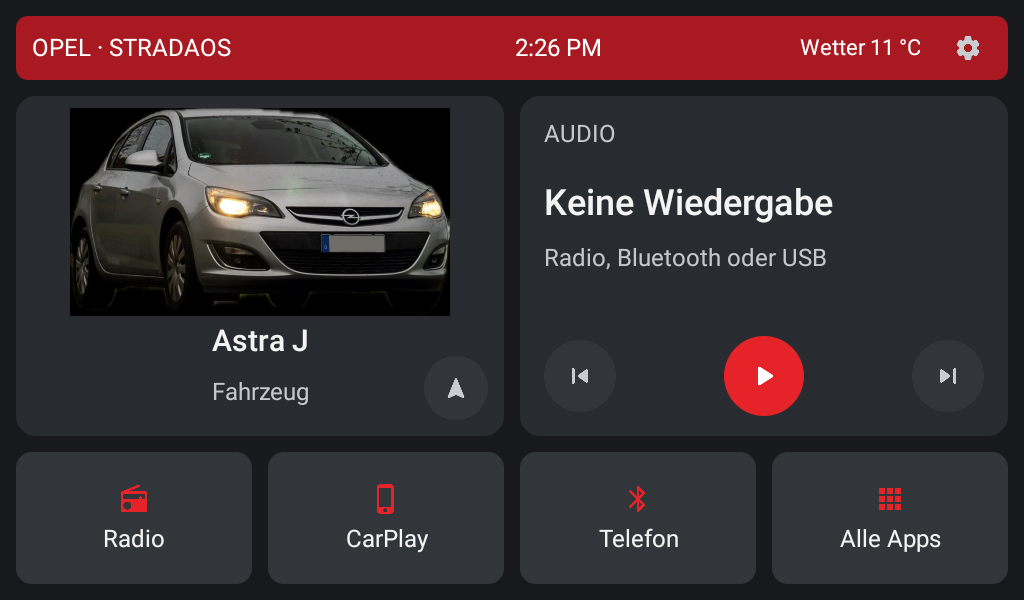
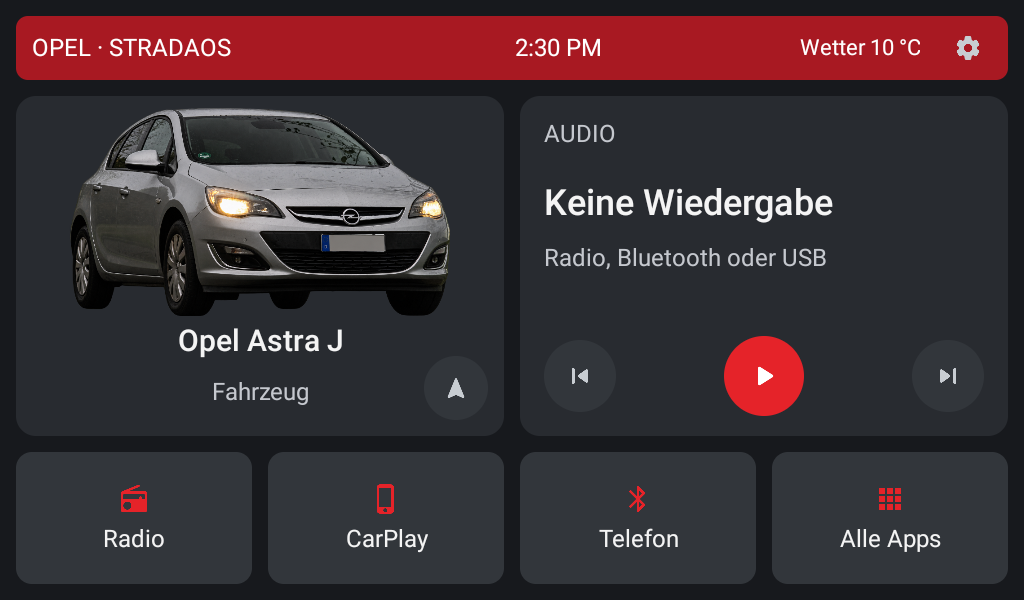
feat: use a transparent Opel cutout in compact mode

Changed region(s): [[0.0625, 0.18, 0.4375, 0.6], [0.8438, 0.06, 0.875, 0.09], [0.5312, 0.06, 0.5625, 0.09]]

diff --git a/app/src/main/java/com/stradaos/launcher/Main.java b/app/src/main/java/com/stradaos/launcher/Main.java
@@ -822,7 +822,7 @@ public class Main extends Activity {
             seedLastLocation();
         } else {
             Bitmap photo = CarPhoto.load(this);
-            if (photo == null && modernDesign()) photo = asset("opel_astra_j.jpg");
+            if (photo == null && modernDesign()) photo = asset("opel_astra_j.png");
             ImageView car = new ImageView(this);
             car.setScaleType(ImageView.ScaleType.FIT_CENTER);
             if (photo != null) car.setImageBitmap(photo);
@@ -1936,7 +1936,10 @@ public class Main extends Activity {
         if (b != null) return b;
         try {
             InputStream in = getAssets().open(path);
-            b = BitmapFactory.decodeStream(in);
+            BitmapFactory.Options options = new BitmapFactory.Options();
+            // El recorte de vehículo tiene resolución doble; conservar alpha sin gastar 6 MB.
+            if ("opel_astra_j.png".equals(path)) options.inSampleSize = 2;
+            b = BitmapFactory.decodeStream(in, null, options);
             in.close();
             iconCache.put(path, b);
         } catch (Exception e) {

diff --git a/docs/design/compact-7/vehicle-cutout.md b/docs/design/compact-7/vehicle-cutout.md
@@ -1,0 +1,11 @@
+# Fahrzeugbild mit transparentem Hintergrund
+
+Quelle: `opel-astra-j-reference.jpg` (unverändertes Nutzerfoto).
+App-Asset: `app/src/main/assets/opel_astra_j.png`.
+Bearbeitung: eingebautes Imagegen-Tool, `transparent_background=true`.
+Das PNG wird mit Alphakanal gespeichert und in Android ohne Hintergrundfüllung
+geladen; Nutzerfotos bleiben vorrangig. Die JPEG-Originaldatei wird nicht ersetzt.
+
+Verwendeter Prompt:
+
+> Use case: background-extraction. Edit target: the supplied photograph of the silver Opel Astra J. Remove only the black background outside the car and in the spaces under/between the wheels. Return a clean cutout as an actual RGBA PNG with transparent background, no background rectangle or checkerboard pixels. Preserve the exact original car, its full silhouette, camera angle, crop, proportions, silver color, dark windows, mirrors, grille and Opel emblem, headlights, wheels, shadows within the car, and masked license plate. Do not redesign, relight or beautify the vehicle. Keep dark car parts opaque; only the background becomes transparent. Preserve the landscape composition and use minimal transparent padding. Asset type: vehicle photograph for an Android dashboard, composited over a dark gray card.

diff --git a/docs/COMPACT_7_INCH_PLAN.md b/docs/COMPACT_7_INCH_PLAN.md
@@ -52,10 +52,12 @@ Opel-Kompaktansicht verwendet werden, wenn kein eigenes Fahrzeugfoto hinterlegt
 ist. Ein über `CarPhoto` ausgewähltes Nutzerfoto hat Vorrang; andere Designs und
 das bisherige Standardlayout erhalten dadurch kein neues Standardfahrzeug.
 Das ganze Fahrzeug proportional mit `FIT_CENTER` darstellen, ohne Beschnitt
-oder Verzerrung. Die JPEG-Datei hat einen schwarzen Hintergrund und keine
-Transparenz; eine Freistellung ist mit dieser Aufnahme nicht bereits erfolgt.
-Die spätere App-Ressource wird für die tatsächliche Darstellungsgröße geladen,
-um den Speicherbedarf auf älteren Geräten gering zu halten.
+oder Verzerrung. Die Original-JPEG-Datei bleibt als Referenz erhalten. Die App
+verwendet die freigestellte Variante `app/src/main/assets/opel_astra_j.png` mit
+echtem Alphakanal, damit der Kachelhintergrund um das Fahrzeug sichtbar bleibt.
+Beim Laden wird sie mit `inSampleSize=2` dekodiert, um den Speicherbedarf auf
+älteren Geräten gering zu halten. Transparente Nutzerfotos werden weiterhin
+über `CarPhoto.load()` unverändert bevorzugt.
 
 ## Befund im Repository
 
